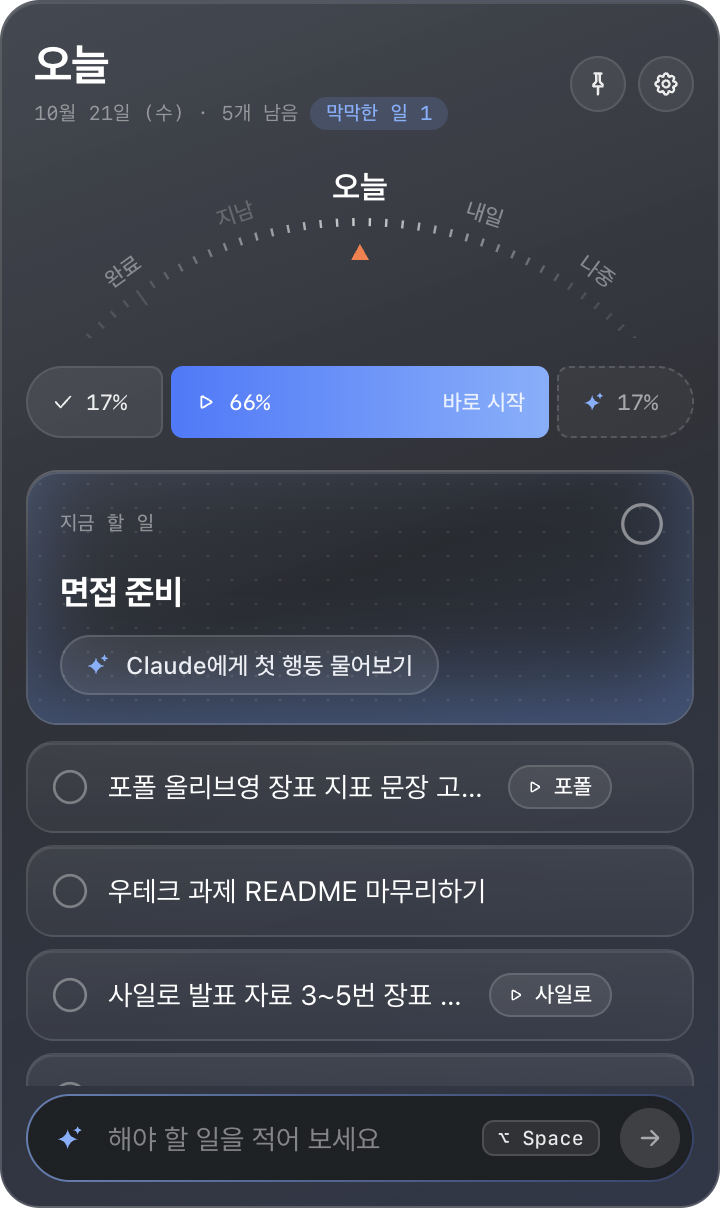
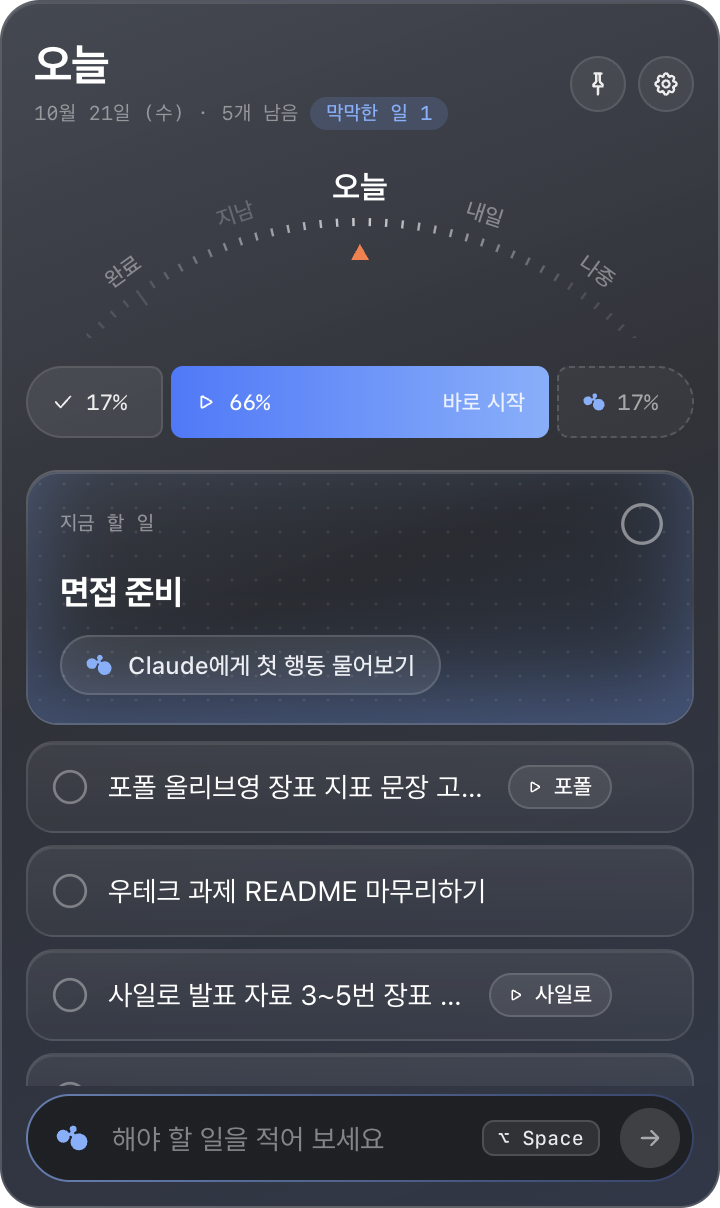
README 스크린샷을 새 로고로 다시 찍음, 다운로드 페이지의 ✦·스피너도 로고와 로더로, 첫 행동 만들기 아래 문구를 실제대로(파일 내용은 안 보내요)

diff --git a/site/index.html b/site/index.html
@@ -115,6 +115,15 @@
   .btn-t:hover { color: var(--text); }
   .spin { width: 11px; height: 11px; border-radius: 50%; border: 1.5px solid rgb(255 255 255 / 25%); border-top-color: var(--blue-2); animation: spin 0.8s linear infinite; flex: none; }
   @keyframes spin { to { transform: rotate(360deg); } }
+  /* Rigel 로더(앱과 같음): 작은 원 둘이 떨어졌다가 로고 모양으로 붙는다 */
+  .rl { flex: none; margin: -2px; color: var(--blue-2); vertical-align: middle; }
+  .rl circle { transform-box: fill-box; transform-origin: center; }
+  .rl-l { animation: rl-l 1.8s cubic-bezier(0.45, 0, 0.3, 1) infinite; }
+  .rl-s { animation: rl-s 1.8s cubic-bezier(0.45, 0, 0.3, 1) infinite 0.1s; }
+  .rl-b { animation: rl-b 1.8s cubic-bezier(0.45, 0, 0.3, 1) infinite; }
+  @keyframes rl-l { 0%, 12%, 88%, 100% { transform: none; } 50% { transform: translate(-6px, -2px); } }
+  @keyframes rl-s { 0%, 12%, 88%, 100% { transform: none; } 50% { transform: translate(2px, -6px); } }
+  @keyframes rl-b { 0%, 78%, 100% { transform: none; } 90% { transform: scale(1.05); } }
   .sparkle { width: 13px; height: 13px; color: var(--blue-2); flex: none; }
 
   /* 빠른 입력 */
@@ -280,6 +289,7 @@
     .reveal { opacity: 1; transform: none; transition: none; }
     .pop, .fade, .now.handoff .flash, .split .raw.go { animation: none; }
     .spin { animation-duration: 2.4s; }
+    .rl circle { animation: none; }
     html { scroll-behavior: auto; }
   }
 
@@ -300,7 +310,8 @@
 </head>
 <body>
   <svg width="0" height="0" style="position: absolute" aria-hidden="true">
-    <symbol id="i-spark" viewBox="0 0 16 16"><path fill="currentColor" d="M8 1.5c.4 2.9 1.6 4.1 4.5 4.5-2.9.4-4.1 1.6-4.5 4.5-.4-2.9-1.6-4.1-4.5-4.5C6.4 5.6 7.6 4.4 8 1.5Zm4.6 7.3c.2 1.4.8 2 2.2 2.2-1.4.2-2 .8-2.2 2.2-.2-1.4-.8-2-2.2-2.2 1.4-.2 2-.8 2.2-2.2Z" /></symbol>
+    <symbol id="i-spark" viewBox="9.8 1.4 68 68"><path fill="currentColor" d="M62.5871 26.2235C70.34 27.9228 76.0751 34.7199 76.6061 42.579C77.2433 53.518 68.1097 62.4392 57.1707 61.5896C48.6743 60.8462 41.771 54.1553 40.8152 45.7651C40.4966 42.8976 40.8152 40.2425 41.6648 37.7998C41.8773 36.9502 42.6207 35.7819 43.1517 35.1447C43.2579 35.0385 43.3641 34.9323 43.3641 34.9323C43.4703 34.7199 43.5765 34.6137 43.5765 34.5075C43.6827 34.1888 43.7889 33.9764 43.7889 33.6578C43.7889 33.5516 43.7889 33.5516 43.7889 33.4454C43.7889 31.8523 42.6207 30.6841 41.1338 30.6841C40.0718 30.6841 39.2221 31.2151 38.7973 32.0647C38.5849 32.2772 38.4787 32.4896 38.4787 32.8082C38.4787 33.0206 38.3725 33.233 38.3725 33.4454C38.3725 34.6137 38.1601 35.8881 37.7353 36.9502C35.7174 42.048 30.832 45.4465 24.9907 45.4465C16.9192 45.4465 10.4407 38.437 11.2904 30.0469C12.0338 23.7808 17.0254 18.7892 23.2915 17.9396C26.9024 17.5147 30.1948 18.4706 32.8499 20.3823C34.0181 21.1257 35.0802 22.2939 35.8236 23.4622C36.036 23.7808 36.3546 24.0994 36.6732 24.2056C36.9918 24.5242 37.5229 24.6304 38.0539 24.6304C39.5408 24.6304 40.709 23.4622 40.709 21.9753C40.709 21.7629 40.709 21.5505 40.6028 21.3381C40.6028 21.0195 40.4966 20.8071 40.3904 20.5947C40.2842 20.5947 40.2842 20.4885 40.178 20.4885C39.3283 19.3202 38.7973 17.9396 38.7973 16.4527C38.7973 11.8859 42.9393 8.27495 47.6123 9.12459C50.4798 9.65561 52.8163 11.8859 53.4535 14.7534C53.8784 16.9837 53.4535 19.0016 52.2853 20.5947C51.7543 21.3381 50.9046 21.8691 50.055 22.1877C49.9488 22.1877 49.9488 22.1877 49.8426 22.1877C49.6302 22.2939 49.4178 22.5063 49.2054 22.6126C48.8867 22.825 48.6743 23.1436 48.4619 23.4622C48.1433 23.887 48.0371 24.418 48.0371 24.949C48.0371 25.2677 48.0371 25.5863 48.2495 25.9049C48.6743 27.2855 50.2674 27.8166 51.5419 27.2855C51.7543 27.1793 51.9667 27.0731 52.1791 26.9669C52.6039 26.8607 52.9142 26.6704 53.3473 26.5421C56.2149 25.6925 59.2948 25.4801 62.5871 26.2235Z" /></symbol>
+    <filter id="goo-l" filterUnits="userSpaceOnUse" x="-10" y="-10" width="92" height="80"><feGaussianBlur in="SourceGraphic" stdDeviation="2.6" result="b" /><feColorMatrix in="b" mode="matrix" values="1 0 0 0 0  0 1 0 0 0  0 0 1 0 0  0 0 0 14 -5.5" /></filter>
     <symbol id="i-check" viewBox="0 0 16 16"><path d="m3.5 8.4 2.9 2.9 6.1-6.6" fill="none" stroke="currentColor" stroke-width="2" stroke-linecap="round" stroke-linejoin="round" /></symbol>
     <symbol id="i-chev" viewBox="0 0 16 16"><path d="m4 6 4 4 4-4" fill="none" stroke="currentColor" stroke-width="1.6" stroke-linecap="round" stroke-linejoin="round" /></symbol>
     <symbol id="i-figma" viewBox="0 0 16 24"><path fill="#f24e1e" d="M4 0h4v8H4a4 4 0 0 1 0-8Z" /><path fill="#ff7262" d="M8 0h4a4 4 0 0 1 0 8H8V0Z" /><path fill="#a259ff" d="M4 8h4v8H4a4 4 0 0 1 0-8Z" /><circle fill="#1abcfe" cx="12" cy="12" r="4" /><path fill="#0acf83" d="M4 16h4v4a4 4 0 1 1-4-4Z" /></symbol>
@@ -812,7 +823,7 @@
     // 3) 물어보면 실제로 일어나는 일만 보여 준다
     ask.remove();
     fsSlot.innerHTML = "";
-    var prog = el('<div class="progress fade"><p class="done">' + CHECK + 'Claude에 할 일을 보냈어요</p><p><span class="spin"></span>첫 행동을 찾고 있어요<span class="meta2">보통 6초</span></p></div>');
+    var prog = el('<div class="progress fade"><p class="done">' + CHECK + 'Claude에 할 일을 보냈어요</p><p><svg class="rl" width="20" height="17.4" viewBox="-10 -10 92 80" fill="currentColor" aria-hidden="true"><g filter="url(#goo-l)"><circle class="rl-b" cx="48.7" cy="37.6" r="17.6"/><circle class="rl-l" cx="16.5" cy="26.3" r="13.4"/><circle class="rl-s" cx="37.8" cy="12" r="7.2"/></g></svg>첫 행동을 찾고 있어요<span class="meta2">보통 6초</span></p></div>');
     fsSlot.appendChild(prog);
     await wait(1700);
     if (my !== run) return;
@@ -895,7 +906,7 @@
   async function playSplit() {
     out.innerHTML = ""; raw.classList.remove("go");
     await wait(300);
-    var p = el('<div class="progress fade" style="padding-left: 4px"><p><span class="spin"></span>할 일로 나누고 있어요</p></div>');
+    var p = el('<div class="progress fade" style="padding-left: 4px"><p><svg class="rl" width="20" height="17.4" viewBox="-10 -10 92 80" fill="currentColor" aria-hidden="true"><g filter="url(#goo-l)"><circle class="rl-b" cx="48.7" cy="37.6" r="17.6"/><circle class="rl-l" cx="16.5" cy="26.3" r="13.4"/><circle class="rl-s" cx="37.8" cy="12" r="7.2"/></g></svg>할 일로 나누고 있어요</p></div>');
     out.appendChild(p);
     await wait(1300);
     out.innerHTML = ""; void raw.offsetWidth; raw.classList.add("go");
@@ -921,7 +932,7 @@
   rTitle.textContent = REDO[0];
   $(redo, ".redo").addEventListener("click", async function () {
     var btn = this; btn.disabled = true;
-    rTitle.innerHTML = '<span style="display:inline-flex;align-items:center;gap:7px;font-size:13px;font-weight:500;color:var(--text-2)"><span class="spin"></span>다시 만들고 있어요</span>';
+    rTitle.innerHTML = '<span style="display:inline-flex;align-items:center;gap:7px;font-size:13px;font-weight:500;color:var(--text-2)"><svg class="rl" width="20" height="17.4" viewBox="-10 -10 92 80" fill="currentColor" aria-hidden="true"><g filter="url(#goo-l)"><circle class="rl-b" cx="48.7" cy="37.6" r="17.6"/><circle class="rl-l" cx="16.5" cy="26.3" r="13.4"/><circle class="rl-s" cx="37.8" cy="12" r="7.2"/></g></svg>다시 만들고 있어요</span>';
     await wait(800);
     ri = (ri + 1) % REDO.length;
     rTitle.textContent = REDO[ri]; rTitle.classList.remove("pop"); void rTitle.offsetWidth; rTitle.classList.add("pop");

diff --git a/src/renderer/src/Shape.tsx b/src/renderer/src/Shape.tsx
@@ -449,7 +449,7 @@ export function ShapePanel({ todo, data, state, auto, onClose }: { todo: TodoIte
           </button>
         ) : (
           <span className="shape__note">
-            {mcpOn.length ? t("MCP reads via Claude Code") : t("Sends titles only")} · {sizeLabel(size, currentLang())}
+            {mcpOn.length ? t("MCP reads via Claude Code") : t("File contents stay here")} · {sizeLabel(size, currentLang())}
           </span>
         )}
         <span className="spacer" />

diff --git a/src/shared/i18n.ko.ts b/src/shared/i18n.ko.ts
@@ -219,7 +219,7 @@ export const KO: Record<string, string> = {
   "Drag to change the mix": "끌어서 비율 바꾸기",
   "Skip {names}": "{names} 없이 하기",
   "MCP reads via Claude Code": "MCP 자료는 Claude Code가 읽어요",
-  "Sends titles only": "할 일 이름만 보내요",
+  "File contents stay here": "파일 내용은 안 보내요",
   "Waiting for {names}": "{names} 기다리는 중",
   "Shaping…": "만들고 있어요",
   "Shape it": "첫 행동 만들기",
